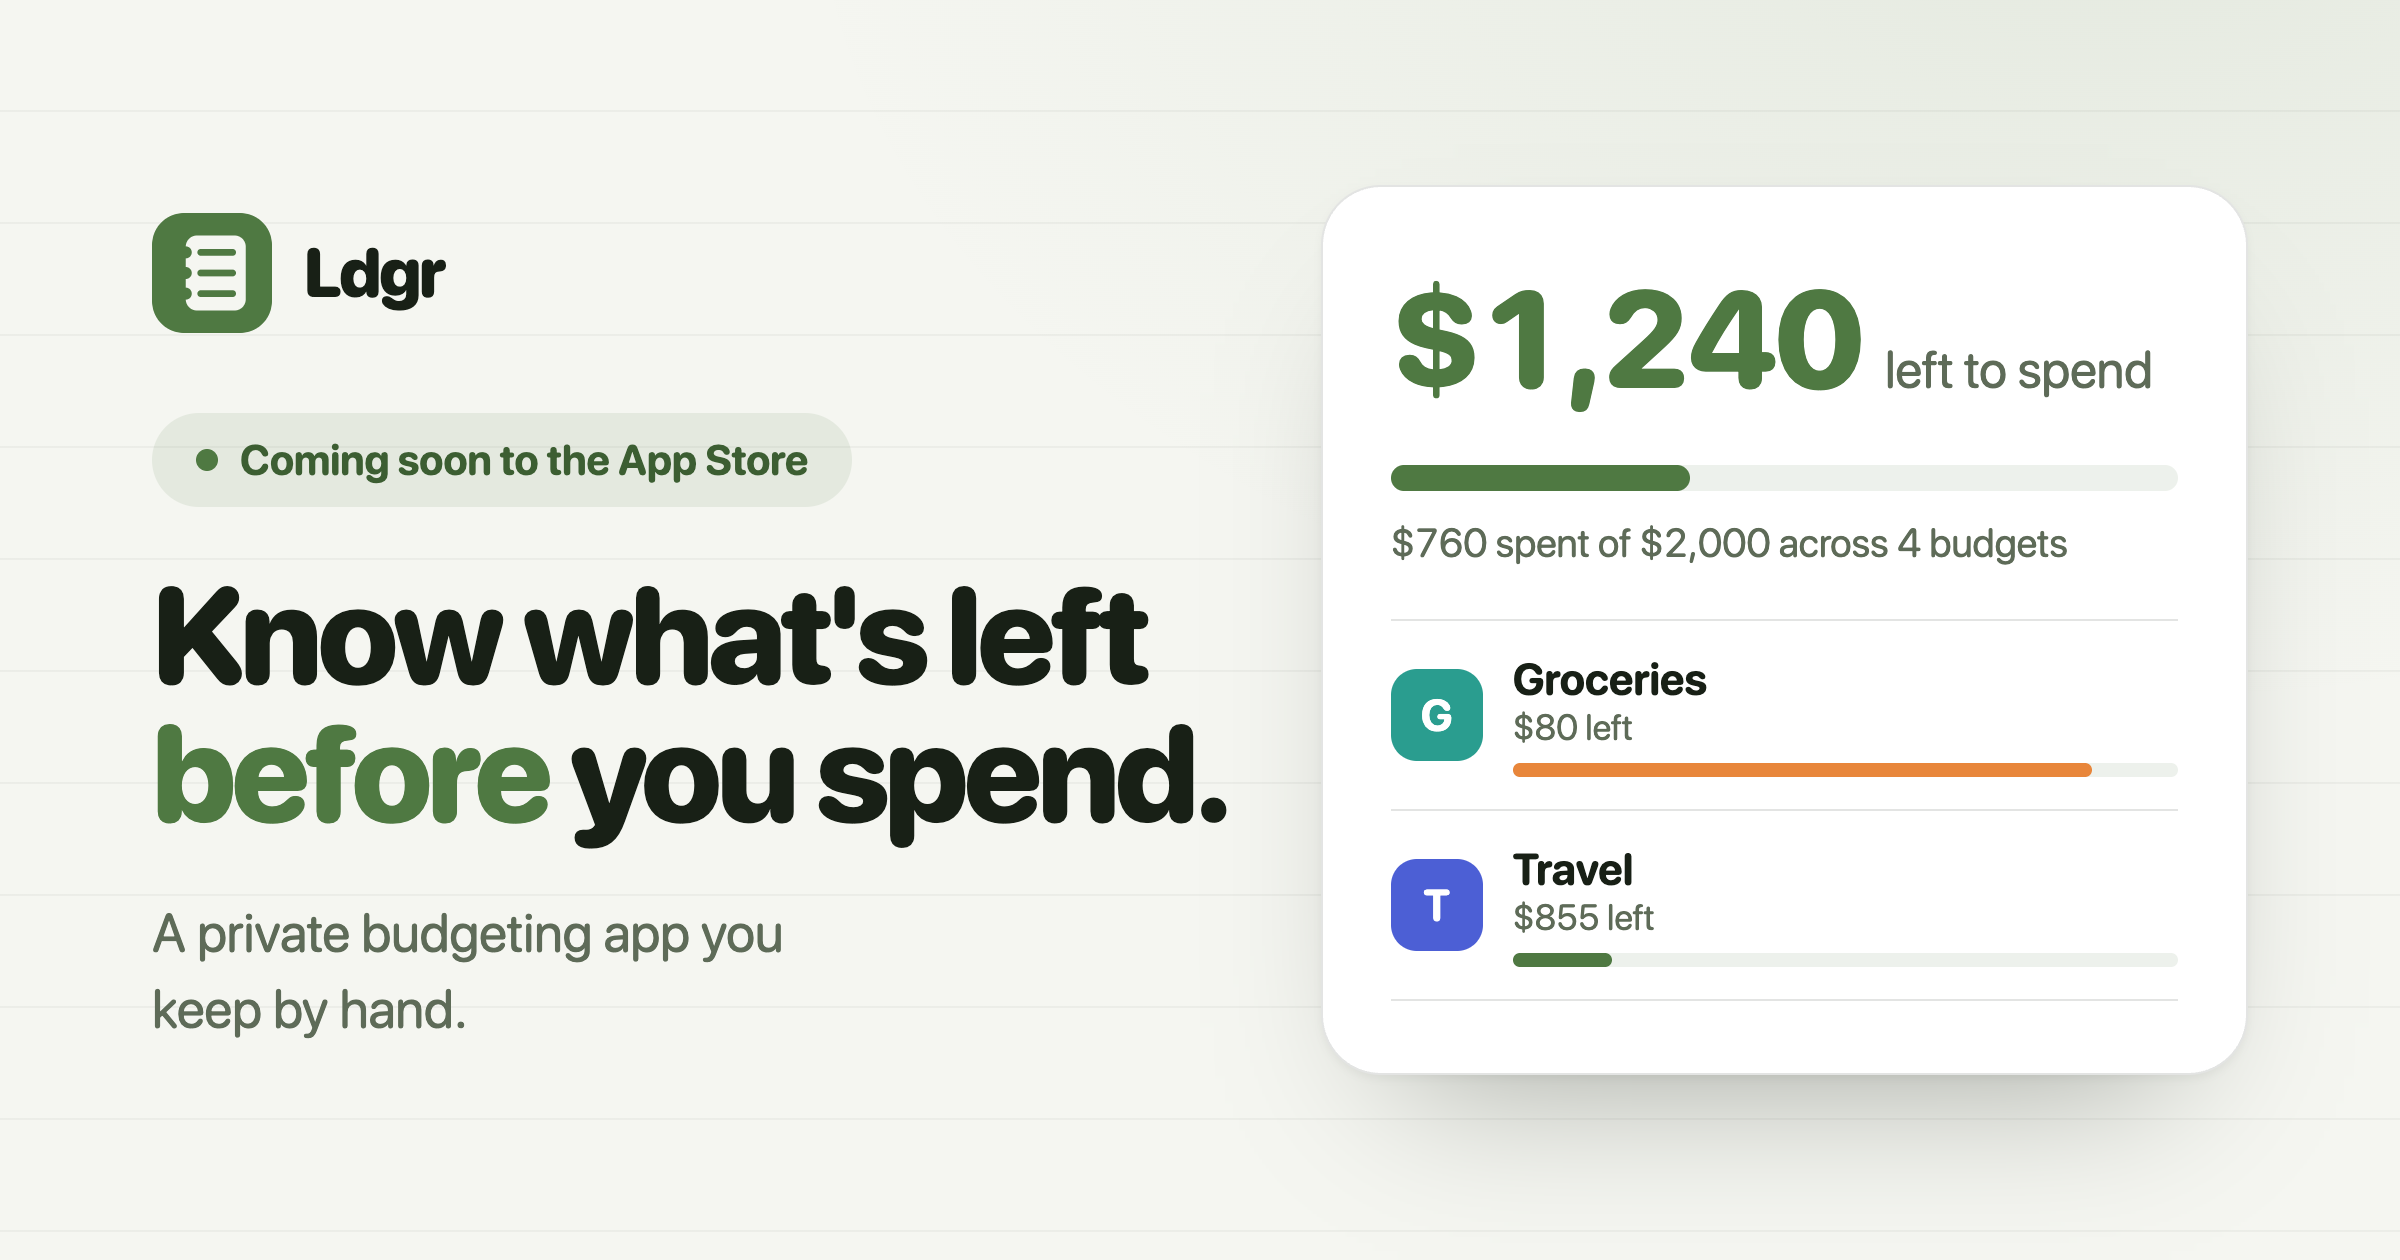
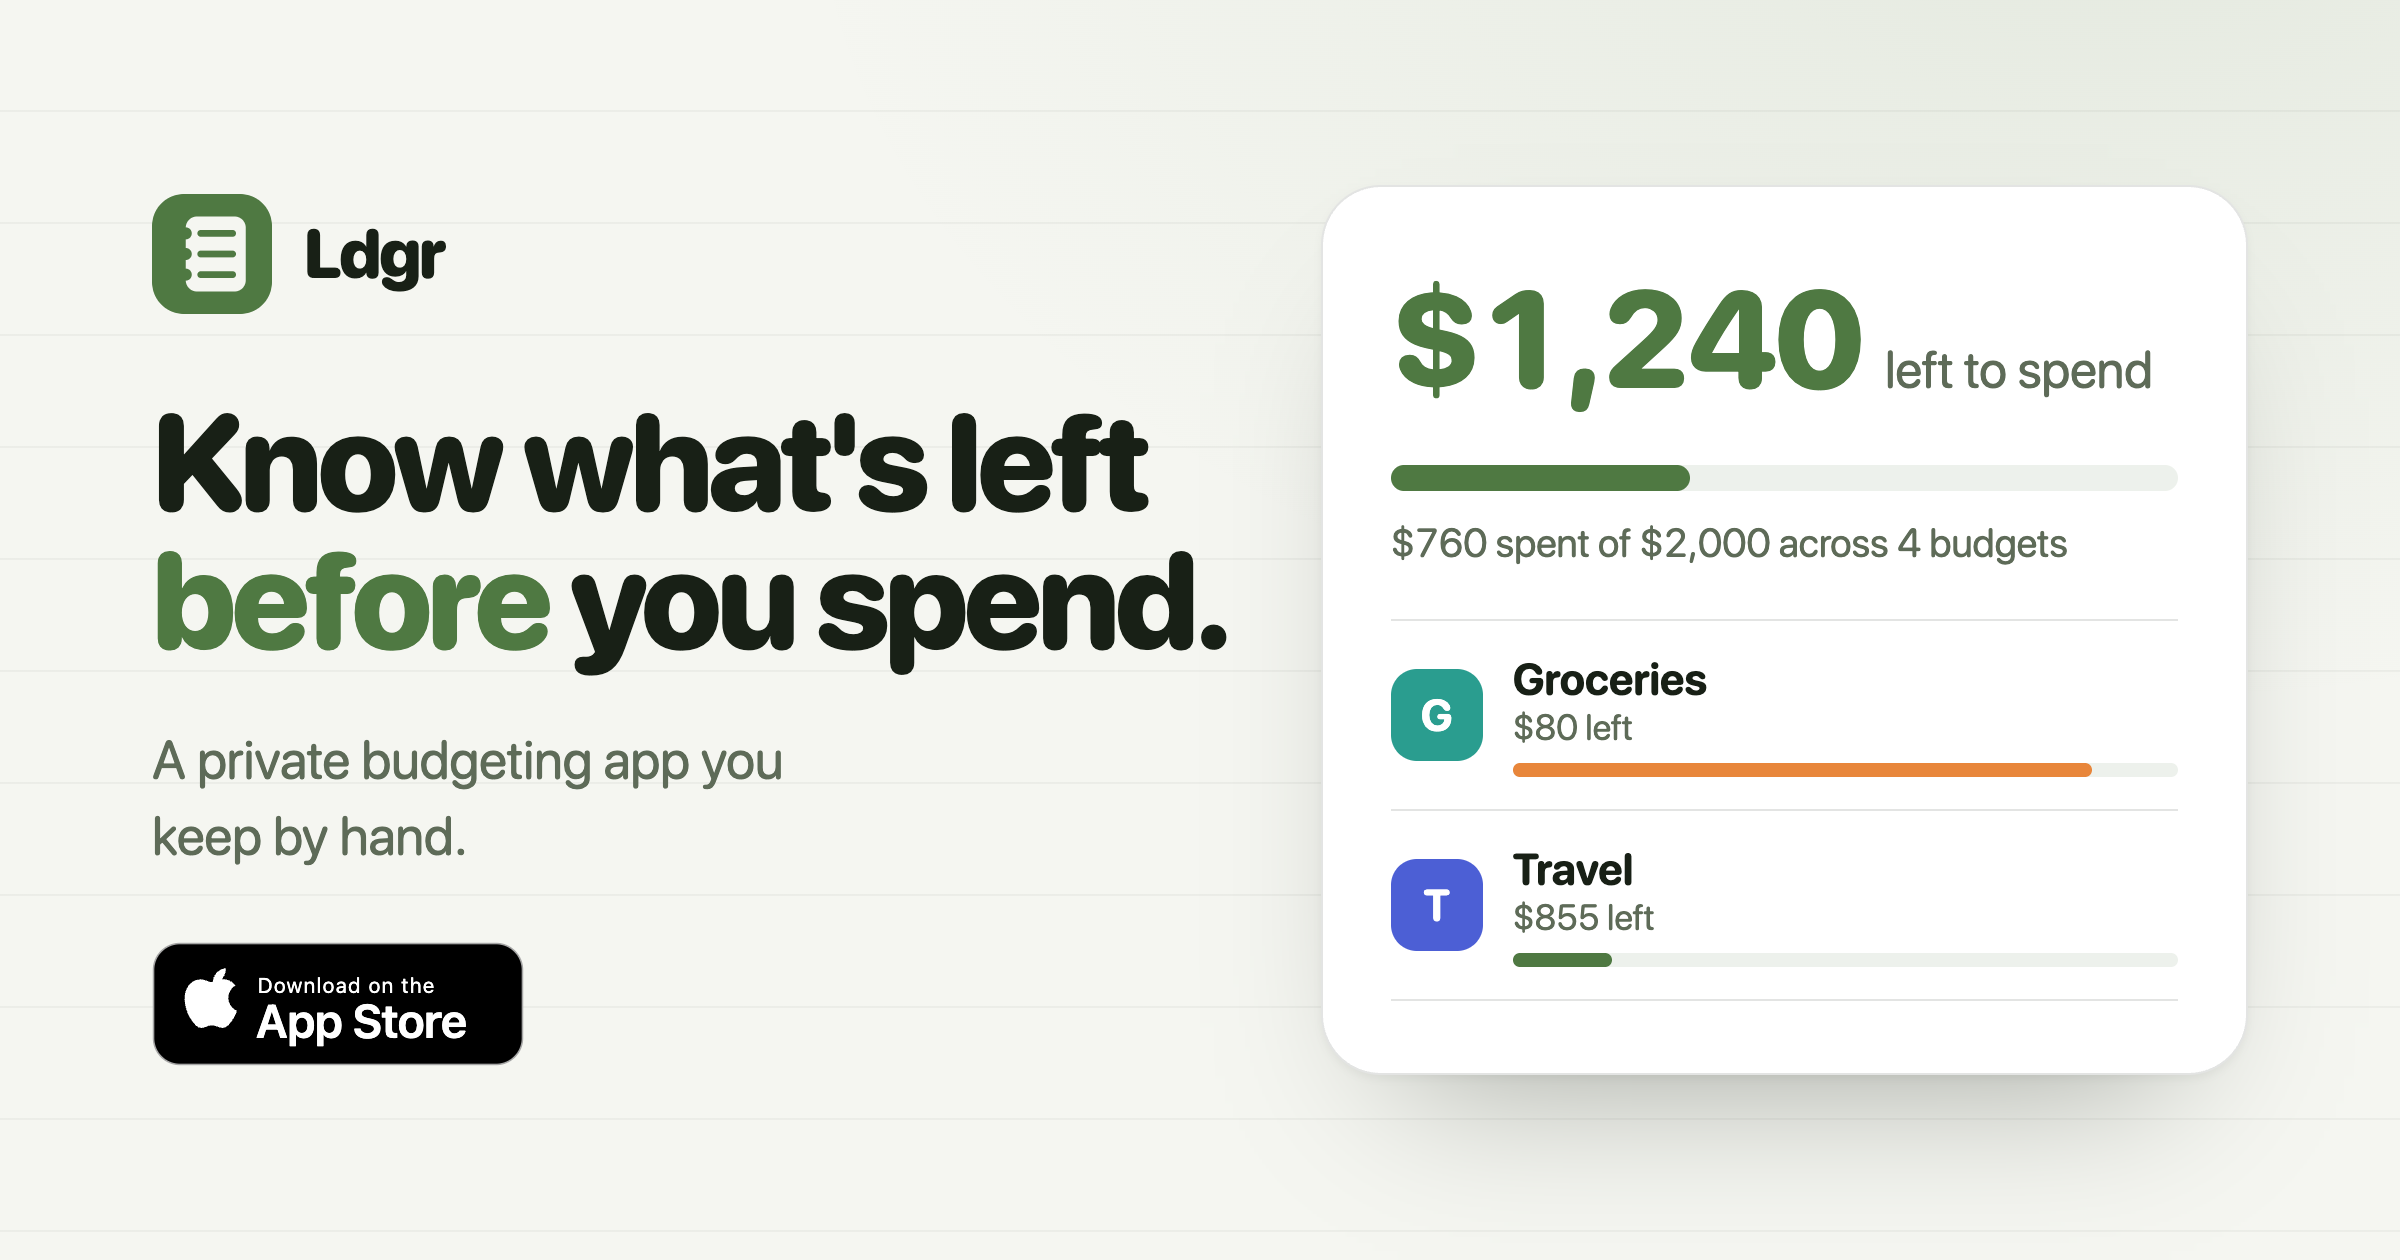
feat: go live — replace "coming soon" with App Store links
## Why this was needed
The app is now live on the App Store, but the site was still built around "coming soon" — no way to download, and shared links and copy all implied the app wasn't out yet. Launch day needs the site to actually send people to the store.

## How I fixed it
Swapped the hero's "coming soon" pill for the official "Download on the App Store" badge linking to the listing, and added an App Store link to every footer. Added the iOS smart-app-banner meta across all pages so Safari on iPhone offers the app directly. Regenerated the social share card with the download badge in place of the old pill, and updated the remaining copy and the README to reflect that Ldgr is now available.

diff --git a/index.html b/index.html
@@ -3,14 +3,15 @@
 <meta charset="utf-8">
 <meta name="viewport" content="width=device-width, initial-scale=1">
 <title>Ldgr — Budget by hand, stay present with your money</title>
-<meta name="description" content="Ldgr is a private, manual budgeting app. No bank connections — you add every purchase yourself, so you always know what's left before you spend. Coming soon to the App Store.">
+<meta name="description" content="Ldgr is a private, manual budgeting app. No bank connections — you add every purchase yourself, so you always know what's left before you spend. Now on the App Store.">
+<meta name="apple-itunes-app" content="app-id=6476118269">
 <link rel="icon" href="favicon.svg" type="image/svg+xml">
 <link rel="apple-touch-icon" href="assets/app-icon.png">
 <meta name="theme-color" content="#4F7942">
 <meta property="og:type" content="website">
 <meta property="og:site_name" content="Ldgr">
 <meta property="og:title" content="Ldgr — Budget by hand, stay present with your money">
-<meta property="og:description" content="A private, manual budgeting app. No bank connections — you add every purchase yourself, so you always know what's left before you spend. Coming soon to the App Store.">
+<meta property="og:description" content="A private, manual budgeting app. No bank connections — you add every purchase yourself, so you always know what's left before you spend. Now on the App Store.">
 <meta property="og:url" content="https://ldgrapp.com/">
 <meta property="og:image" content="https://ldgrapp.com/assets/og-image.png">
 <meta property="og:image:secure_url" content="https://ldgrapp.com/assets/og-image.png">
@@ -48,10 +49,12 @@
   <section class="hero">
     <div class="container">
       <div class="hero-copy">
-        <span class="badge"><span class="dot"></span> Coming soon to the App Store</span>
         <h1>Know what's left <span class="accent">before</span> you spend.</h1>
         <p class="lede">Ldgr is a budgeting app you keep by hand. No bank logins, no imports — you enter every purchase yourself, so you stay present with your money instead of reviewing it later.</p>
         <div class="hero-actions">
+          <a class="appstore" href="https://apps.apple.com/app/id6476118269">
+            <img src="assets/app-store-badge.svg" alt="Download Ldgr on the App Store" width="150" height="50">
+          </a>
           <span class="hero-sub">Free · iPhone · Private by design</span>
         </div>
       </div>
@@ -291,9 +294,10 @@
         <img src="favicon.svg" alt="">
         Ldgr
       </a>
-      <p class="copyright">Budget by hand. Coming soon to the App Store.<br>© 2026 Tanner Mares</p>
+      <p class="copyright">Budget by hand. Now on the App Store.<br>© 2026 Tanner Mares</p>
     </div>
     <nav class="fnav">
+      <a href="https://apps.apple.com/app/id6476118269">App Store</a>
       <a href="privacy.html">Privacy</a>
       <a href="terms.html">Terms</a>
       <a href="support.html">Support</a>

diff --git a/styles.css b/styles.css
@@ -187,8 +187,16 @@ p { margin: 0 0 1em; }
   max-width: 30ch;
   margin-bottom: 28px;
 }
-.hero-actions { display: flex; align-items: center; gap: 18px; flex-wrap: wrap; }
+.hero-actions { display: flex; align-items: center; gap: 18px 20px; flex-wrap: wrap; }
 .hero-sub { font-size: 0.92rem; color: var(--secondary); }
+.appstore {
+  display: inline-block;
+  border-radius: 10px;
+  transition: transform 0.15s ease, box-shadow 0.15s ease;
+}
+.appstore img { display: block; height: 50px; width: auto; }
+.appstore:hover { transform: translateY(-1px); }
+.appstore:focus-visible { outline: 3px solid var(--fern); outline-offset: 4px; }
 
 @media (max-width: 860px) {
   .hero { padding: 44px 0 24px; }

diff --git a/privacy.html b/privacy.html
@@ -6,6 +6,7 @@
 <meta name="description" content="Ldgr collects no personal data. Everything you enter is stored in your own iCloud account. Read the full privacy policy.">
 <link rel="icon" href="favicon.svg" type="image/svg+xml">
 <link rel="apple-touch-icon" href="assets/app-icon.png">
+<meta name="apple-itunes-app" content="app-id=6476118269">
 <meta name="theme-color" content="#4F7942">
 <meta property="og:type" content="article">
 <meta property="og:site_name" content="Ldgr">
@@ -93,6 +94,7 @@
       <p class="copyright">© 2026 Tanner Mares</p>
     </div>
     <nav class="fnav">
+      <a href="https://apps.apple.com/app/id6476118269">App Store</a>
       <a href="privacy.html">Privacy</a>
       <a href="terms.html">Terms</a>
       <a href="support.html">Support</a>

diff --git a/support.html b/support.html
@@ -6,6 +6,7 @@
 <meta name="description" content="Get help with Ldgr. Answers to common questions and a way to reach the developer directly.">
 <link rel="icon" href="favicon.svg" type="image/svg+xml">
 <link rel="apple-touch-icon" href="assets/app-icon.png">
+<meta name="apple-itunes-app" content="app-id=6476118269">
 <meta name="theme-color" content="#4F7942">
 <meta property="og:type" content="website">
 <meta property="og:site_name" content="Ldgr">
@@ -92,6 +93,7 @@
       <p class="copyright">© 2026 Tanner Mares</p>
     </div>
     <nav class="fnav">
+      <a href="https://apps.apple.com/app/id6476118269">App Store</a>
       <a href="privacy.html">Privacy</a>
       <a href="terms.html">Terms</a>
       <a href="support.html">Support</a>

diff --git a/terms.html b/terms.html
@@ -6,6 +6,7 @@
 <meta name="description" content="The terms of use for Ldgr, a free manual budgeting app for iPhone.">
 <link rel="icon" href="favicon.svg" type="image/svg+xml">
 <link rel="apple-touch-icon" href="assets/app-icon.png">
+<meta name="apple-itunes-app" content="app-id=6476118269">
 <meta name="theme-color" content="#4F7942">
 <meta property="og:type" content="article">
 <meta property="og:site_name" content="Ldgr">
@@ -89,6 +90,7 @@
       <p class="copyright">© 2026 Tanner Mares</p>
     </div>
     <nav class="fnav">
+      <a href="https://apps.apple.com/app/id6476118269">App Store</a>
       <a href="privacy.html">Privacy</a>
       <a href="terms.html">Terms</a>
       <a href="support.html">Support</a>

diff --git a/README.md b/README.md
@@ -12,7 +12,7 @@ Marketing site for **Ldgr** — a private, manual budgeting app for iPhone. Stat
 | `support.html` | `/support.html` | Support + FAQ (App Store required) |
 | `styles.css` | — | Shared design system (tokens, components) |
 
-App Store URLs: **Support** → `https://ldgrapp.com/support.html`, **Privacy Policy** → `https://ldgrapp.com/privacy.html`.
+App Store listing: <https://apps.apple.com/app/id6476118269>. Support URL → `https://ldgrapp.com/support.html`, Privacy Policy URL → `https://ldgrapp.com/privacy.html`.
 
 ## Local preview
 
@@ -35,6 +35,6 @@ Pushing to `main` triggers GitHub Pages (branch deploy, root, `.nojekyll` to ser
 
 - The legal pages are plain-language drafts, not attorney-reviewed.
 - `[email redacted]` / `[email redacted]` need mailbox/forwarding set up on the domain.
-- The App Store badge is "coming soon" — swap in the real store link once the app is live.
+- The App Store badge links to the live listing (`id6476118269`); an `apple-itunes-app` meta shows the native smart banner in iOS Safari.
 
 © 2026 Tanner Mares